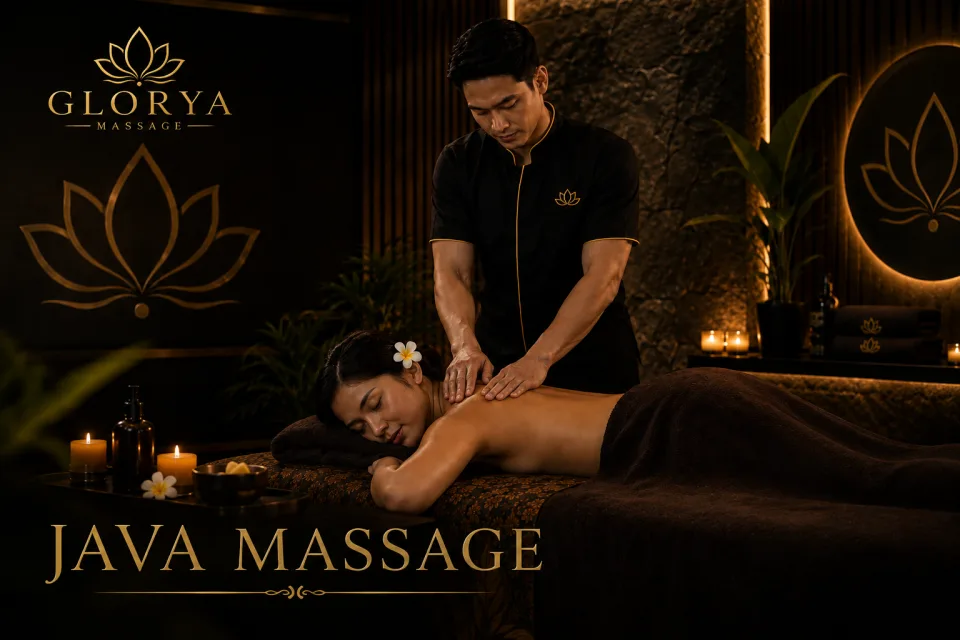
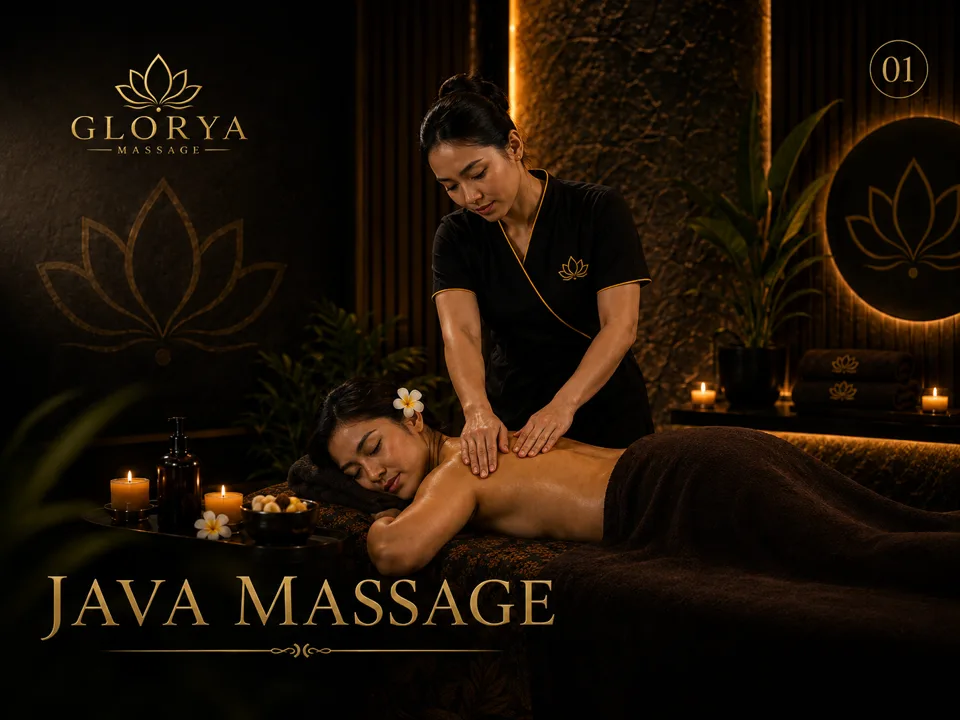
Refactor code structure for improved readability and maintainability

diff --git a/index.html b/index.html
@@ -13,7 +13,7 @@
   <link rel="icon" href="assets/images/favicon.ico" sizes="any">
   <link rel="apple-touch-icon" sizes="180x180" href="assets/images/apple-touch-icon.png">
   <link rel="manifest" href="site.webmanifest">
-  <link rel="preload" as="image" href="assets/images/hero-glorya.webp" type="image/webp" fetchpriority="high">
+  <link rel="preload" as="image" href="assets/images/hero-massage-spa.webp" type="image/webp" fetchpriority="high">
 
   <meta property="og:type" content="website">
   <meta property="og:title" content="Jasa Pijat Panggilan Jogja 24 Jam | Glorya Massage">
@@ -153,7 +153,7 @@
 
   <main id="main-content">
     <section id="home" class="hero-pattern relative flex min-h-[100svh] items-center overflow-hidden pt-[76px]">
-      <img src="assets/images/hero-glorya.webp" class="hero-image absolute inset-0 h-full w-full object-cover" width="1586" height="992" alt="" fetchpriority="high" decoding="async">
+      <img src="assets/images/hero-massage-spa.webp" class="hero-image absolute inset-0 h-full w-full object-cover" width="1448" height="1086" alt="" fetchpriority="high" decoding="async">
       <div class="relative z-10 mx-auto w-full max-w-7xl px-5 py-10 sm:px-8 sm:py-12 lg:px-10 lg:py-8">
         <div class="max-w-4xl">
           <div class="reveal mb-5 flex items-center gap-4 text-[10px] font-semibold tracking-[.25em] text-glorya-lightGold sm:text-xs"><span class="h-px w-10 bg-glorya-gold"></span>PIJAT PANGGILAN • YOGYAKARTA • 24 JAM</div>
@@ -196,24 +196,24 @@
       <div class="mx-auto max-w-7xl px-5 sm:px-8 lg:px-10">
         <div class="reveal mx-auto max-w-2xl text-center"><span class="eyebrow justify-center">Pilihan Relaksasi</span><h2 class="section-title">Treatment & Harga <span class="text-glorya-lightGold">Glorya Massage</span></h2><p class="section-copy mx-auto">Pilih treatment dan durasi massage yang sesuai dengan kebutuhan relaksasi Anda.</p></div>
         <div class="mt-14 grid gap-5 md:grid-cols-2 lg:grid-cols-3">
-          <article class="treatment-card reveal"><span class="card-index">01</span><span class="card-ornament-tugu" aria-hidden="true"></span><div class="treatment-image"><img src="assets/images/treatment/java-massage.webp" width="960" height="640" alt="Treatment Java Massage Glorya Massage" loading="lazy" decoding="async"></div><h3>Java Massage</h3><p>Massage dengan pendekatan pijat tradisional Jawa untuk membantu tubuh terasa lebih rileks dan nyaman setelah beraktivitas.</p><div class="price-list"><button class="price-option wa-trigger" data-service="Java Massage" data-duration="60 menit" data-price="Rp150.000"><span>60 menit</span><strong>Rp150.000</strong></button><button class="price-option wa-trigger" data-service="Java Massage" data-duration="90 menit" data-price="Rp200.000"><span>90 menit</span><strong>Rp200.000</strong></button><button class="price-option wa-trigger" data-service="Java Massage" data-duration="120 menit" data-price="Rp250.000"><span>120 menit</span><strong>Rp250.000</strong></button></div><button type="button" class="btn-gold btn-card-book wa-trigger" data-service="Java Massage">Booking Sekarang</button><span class="card-ornament-filigri" aria-hidden="true"></span><span class="card-ornament-emblem" aria-hidden="true"></span></article>
-          <article class="treatment-card reveal"><span class="card-index">02</span><span class="card-ornament-tugu" aria-hidden="true"></span><div class="treatment-image"><img src="assets/images/treatment/massage-kombinasi.webp" width="960" height="640" alt="Treatment Massage Kombinasi Glorya Massage" loading="lazy" decoding="async"></div><h3>Massage Kombinasi</h3><p>Kombinasi beberapa teknik massage untuk memberikan pengalaman relaksasi yang lebih menyeluruh sesuai kebutuhan kenyamanan tubuh.</p><div class="price-list"><button class="price-option wa-trigger" data-service="Massage Kombinasi" data-duration="60 menit" data-price="Rp200.000"><span>60 menit</span><strong>Rp200.000</strong></button><button class="price-option wa-trigger" data-service="Massage Kombinasi" data-duration="90 menit" data-price="Rp250.000"><span>90 menit</span><strong>Rp250.000</strong></button><button class="price-option wa-trigger" data-service="Massage Kombinasi" data-duration="120 menit" data-price="Rp300.000"><span>120 menit</span><strong>Rp300.000</strong></button></div><button type="button" class="btn-gold btn-card-book wa-trigger" data-service="Massage Kombinasi">Booking Sekarang</button><span class="card-ornament-filigri" aria-hidden="true"></span><span class="card-ornament-emblem" aria-hidden="true"></span></article>
-          <article class="treatment-card reveal"><span class="card-index">03</span><span class="card-ornament-tugu" aria-hidden="true"></span><div class="treatment-image"><img src="assets/images/treatment/neck-shoulder-massage.webp" width="960" height="640" alt="Treatment Neck and Shoulder Massage Glorya Massage" loading="lazy" decoding="async"></div><h3>Neck & Shoulder Massage</h3><p>Massage yang berfokus pada area leher, bahu dan area sekitarnya, cocok untuk relaksasi setelah aktivitas sehari-hari.</p><div class="price-list"><button class="price-option wa-trigger" data-service="Neck & Shoulder Massage" data-duration="60 menit" data-price="Rp150.000"><span>60 menit</span><strong>Rp150.000</strong></button><button class="price-option wa-trigger" data-service="Neck & Shoulder Massage" data-duration="90 menit" data-price="Rp200.000"><span>90 menit</span><strong>Rp200.000</strong></button><button class="price-option wa-trigger" data-service="Neck & Shoulder Massage" data-duration="120 menit" data-price="Rp250.000"><span>120 menit</span><strong>Rp250.000</strong></button></div><button type="button" class="btn-gold btn-card-book wa-trigger" data-service="Neck & Shoulder Massage">Booking Sekarang</button><span class="card-ornament-filigri" aria-hidden="true"></span><span class="card-ornament-emblem" aria-hidden="true"></span></article>
-          <article class="treatment-card reveal"><span class="card-index">04</span><span class="card-ornament-tugu" aria-hidden="true"></span><div class="treatment-image"><img src="assets/images/treatment/massage-refleksi.webp" width="960" height="640" alt="Treatment Massage Refleksi Glorya Massage" loading="lazy" decoding="async"></div><h3>Massage Refleksi</h3><p>Treatment refleksi yang berfokus pada titik tertentu untuk memberikan pengalaman rileks dan nyaman.</p><div class="price-list"><button class="price-option wa-trigger" data-service="Massage Refleksi" data-duration="60 menit" data-price="Rp150.000"><span>60 menit</span><strong>Rp150.000</strong></button><button class="price-option wa-trigger" data-service="Massage Refleksi" data-duration="90 menit" data-price="Rp200.000"><span>90 menit</span><strong>Rp200.000</strong></button><button class="price-option wa-trigger" data-service="Massage Refleksi" data-duration="120 menit" data-price="Rp250.000"><span>120 menit</span><strong>Rp250.000</strong></button></div><button type="button" class="btn-gold btn-card-book wa-trigger" data-service="Massage Refleksi">Booking Sekarang</button><span class="card-ornament-filigri" aria-hidden="true"></span><span class="card-ornament-emblem" aria-hidden="true"></span></article>
-          <article class="treatment-card reveal"><span class="card-index">05</span><span class="card-ornament-tugu" aria-hidden="true"></span><div class="treatment-image"><img src="assets/images/treatment/massage-kerik.webp" width="960" height="640" alt="Treatment Massage Kerik Glorya Massage" loading="lazy" decoding="async"></div><h3>Massage Kerik</h3><p>Kombinasi massage dan teknik kerik tradisional untuk memberikan pengalaman relaksasi yang lebih lengkap.</p><div class="price-list"><button class="price-option wa-trigger" data-service="Massage Kerik" data-duration="60 menit" data-price="Rp175.000"><span>60 menit</span><strong>Rp175.000</strong></button><button class="price-option wa-trigger" data-service="Massage Kerik" data-duration="90 menit" data-price="Rp250.000"><span>90 menit</span><strong>Rp250.000</strong></button><button class="price-option wa-trigger" data-service="Massage Kerik" data-duration="120 menit" data-price="Rp300.000"><span>120 menit</span><strong>Rp300.000</strong></button></div><button type="button" class="btn-gold btn-card-book wa-trigger" data-service="Massage Kerik">Booking Sekarang</button><span class="card-ornament-filigri" aria-hidden="true"></span><span class="card-ornament-emblem" aria-hidden="true"></span></article>
-          <article class="treatment-card reveal"><span class="card-index">06</span><span class="card-ornament-tugu" aria-hidden="true"></span><div class="treatment-image"><img src="assets/images/treatment/massage-scrub-lulur.webp" width="960" height="640" alt="Treatment Massage Scrub dan Lulur Glorya Massage" loading="lazy" decoding="async"></div><h3>Massage Scrub / Lulur</h3><p>Massage yang dikombinasikan dengan treatment scrub atau lulur untuk melengkapi pengalaman perawatan dan relaksasi tubuh.</p><div class="price-list"><button class="price-option wa-trigger" data-service="Massage Scrub / Lulur" data-duration="60 menit" data-price="Rp200.000"><span>60 menit</span><strong>Rp200.000</strong></button><button class="price-option wa-trigger" data-service="Massage Scrub / Lulur" data-duration="90 menit" data-price="Rp250.000"><span>90 menit</span><strong>Rp250.000</strong></button><button class="price-option wa-trigger" data-service="Massage Scrub / Lulur" data-duration="120 menit" data-price="Rp300.000"><span>120 menit</span><strong>Rp300.000</strong></button></div><button type="button" class="btn-gold btn-card-book wa-trigger" data-service="Massage Scrub / Lulur">Booking Sekarang</button><span class="card-ornament-filigri" aria-hidden="true"></span><span class="card-ornament-emblem" aria-hidden="true"></span></article>
-          <article class="treatment-card reveal"><span class="card-index">07</span><span class="card-ornament-tugu" aria-hidden="true"></span><div class="treatment-image"><img src="assets/images/treatment/deep-tissue-massage.webp" width="960" height="640" alt="Treatment Deep Tissue Massage Glorya Massage" loading="lazy" decoding="async"></div><h3>Deep Tissue Massage</h3><p>Massage dengan tekanan yang lebih dalam untuk pelanggan yang menyukai intensitas pijatan lebih kuat pada area tertentu.</p><div class="price-list"><button class="price-option wa-trigger" data-service="Deep Tissue Massage" data-duration="60 menit" data-price="Rp200.000"><span>60 menit</span><strong>Rp200.000</strong></button><button class="price-option wa-trigger" data-service="Deep Tissue Massage" data-duration="90 menit" data-price="Rp300.000"><span>90 menit</span><strong>Rp300.000</strong></button><button class="price-option wa-trigger" data-service="Deep Tissue Massage" data-duration="120 menit" data-price="Rp400.000"><span>120 menit</span><strong>Rp400.000</strong></button></div><button type="button" class="btn-gold btn-card-book wa-trigger" data-service="Deep Tissue Massage">Booking Sekarang</button><span class="card-ornament-filigri" aria-hidden="true"></span><span class="card-ornament-emblem" aria-hidden="true"></span></article>
-          <article class="treatment-card reveal"><span class="card-index">08</span><span class="card-ornament-tugu" aria-hidden="true"></span><div class="treatment-image"><img src="assets/images/treatment/massage-bekam.webp" width="960" height="640" alt="Treatment Massage Bekam Glorya Massage" loading="lazy" decoding="async"></div><h3>Massage Bekam</h3><p>Treatment massage yang dikombinasikan dengan teknik bekam sebagai pilihan layanan wellness dan relaksasi.</p><div class="price-list"><button class="price-option wa-trigger" data-service="Massage Bekam" data-duration="60 menit" data-price="Rp250.000"><span>60 menit</span><strong>Rp250.000</strong></button><button class="price-option wa-trigger" data-service="Massage Bekam" data-duration="90 menit" data-price="Rp300.000"><span>90 menit</span><strong>Rp300.000</strong></button><button class="price-option wa-trigger" data-service="Massage Bekam" data-duration="120 menit" data-price="Rp400.000"><span>120 menit</span><strong>Rp400.000</strong></button></div><button type="button" class="btn-gold btn-card-book wa-trigger" data-service="Massage Bekam">Booking Sekarang</button><span class="card-ornament-filigri" aria-hidden="true"></span><span class="card-ornament-emblem" aria-hidden="true"></span></article>
-          <article class="treatment-card reveal"><span class="card-index">09</span><span class="card-ornament-tugu" aria-hidden="true"></span><div class="treatment-image"><img src="assets/images/treatment/thai-massage.webp" width="960" height="640" alt="Treatment Thai Massage Glorya Massage" loading="lazy" decoding="async"></div><h3>Thai Massage</h3><p>Massage dengan inspirasi teknik Thai yang memadukan tekanan dan peregangan untuk pengalaman relaksasi yang berbeda.</p><div class="price-list"><button class="price-option wa-trigger" data-service="Thai Massage" data-duration="60 menit" data-price="Rp200.000"><span>60 menit</span><strong>Rp200.000</strong></button><button class="price-option wa-trigger" data-service="Thai Massage" data-duration="90 menit" data-price="Rp300.000"><span>90 menit</span><strong>Rp300.000</strong></button><button class="price-option wa-trigger" data-service="Thai Massage" data-duration="120 menit" data-price="Rp400.000"><span>120 menit</span><strong>Rp400.000</strong></button></div><button type="button" class="btn-gold btn-card-book wa-trigger" data-service="Thai Massage">Booking Sekarang</button><span class="card-ornament-filigri" aria-hidden="true"></span><span class="card-ornament-emblem" aria-hidden="true"></span></article>
+          <article class="treatment-card reveal"><span class="card-ornament-tugu" aria-hidden="true"></span><div class="treatment-image"><img src="assets/images/treatment/java-massage.webp" width="960" height="720" alt="Treatment Java Massage Glorya Massage" loading="lazy" decoding="async"></div><h3>Java Massage</h3><p>Massage dengan pendekatan pijat tradisional Jawa untuk membantu tubuh terasa lebih rileks dan nyaman setelah beraktivitas.</p><div class="price-list"><button class="price-option wa-trigger" data-service="Java Massage" data-duration="60 menit" data-price="Rp150.000"><span>60 menit</span><strong>Rp150.000</strong></button><button class="price-option wa-trigger" data-service="Java Massage" data-duration="90 menit" data-price="Rp200.000"><span>90 menit</span><strong>Rp200.000</strong></button><button class="price-option wa-trigger" data-service="Java Massage" data-duration="120 menit" data-price="Rp250.000"><span>120 menit</span><strong>Rp250.000</strong></button></div><button type="button" class="btn-gold btn-card-book wa-trigger" data-service="Java Massage">Booking Sekarang</button><span class="card-ornament-filigri" aria-hidden="true"></span><span class="card-ornament-emblem" aria-hidden="true"></span></article>
+          <article class="treatment-card reveal"><span class="card-ornament-tugu" aria-hidden="true"></span><div class="treatment-image"><img src="assets/images/treatment/massage-kombinasi.webp" width="960" height="720" alt="Treatment Massage Kombinasi Glorya Massage" loading="lazy" decoding="async"></div><h3>Massage Kombinasi</h3><p>Kombinasi beberapa teknik massage untuk memberikan pengalaman relaksasi yang lebih menyeluruh sesuai kebutuhan kenyamanan tubuh.</p><div class="price-list"><button class="price-option wa-trigger" data-service="Massage Kombinasi" data-duration="60 menit" data-price="Rp200.000"><span>60 menit</span><strong>Rp200.000</strong></button><button class="price-option wa-trigger" data-service="Massage Kombinasi" data-duration="90 menit" data-price="Rp250.000"><span>90 menit</span><strong>Rp250.000</strong></button><button class="price-option wa-trigger" data-service="Massage Kombinasi" data-duration="120 menit" data-price="Rp300.000"><span>120 menit</span><strong>Rp300.000</strong></button></div><button type="button" class="btn-gold btn-card-book wa-trigger" data-service="Massage Kombinasi">Booking Sekarang</button><span class="card-ornament-filigri" aria-hidden="true"></span><span class="card-ornament-emblem" aria-hidden="true"></span></article>
+          <article class="treatment-card reveal"><span class="card-ornament-tugu" aria-hidden="true"></span><div class="treatment-image"><img src="assets/images/treatment/neck-shoulder-massage.webp" width="960" height="720" alt="Treatment Neck and Shoulder Massage Glorya Massage" loading="lazy" decoding="async"></div><h3>Neck & Shoulder Massage</h3><p>Massage yang berfokus pada area leher, bahu dan area sekitarnya, cocok untuk relaksasi setelah aktivitas sehari-hari.</p><div class="price-list"><button class="price-option wa-trigger" data-service="Neck & Shoulder Massage" data-duration="60 menit" data-price="Rp150.000"><span>60 menit</span><strong>Rp150.000</strong></button><button class="price-option wa-trigger" data-service="Neck & Shoulder Massage" data-duration="90 menit" data-price="Rp200.000"><span>90 menit</span><strong>Rp200.000</strong></button><button class="price-option wa-trigger" data-service="Neck & Shoulder Massage" data-duration="120 menit" data-price="Rp250.000"><span>120 menit</span><strong>Rp250.000</strong></button></div><button type="button" class="btn-gold btn-card-book wa-trigger" data-service="Neck & Shoulder Massage">Booking Sekarang</button><span class="card-ornament-filigri" aria-hidden="true"></span><span class="card-ornament-emblem" aria-hidden="true"></span></article>
+          <article class="treatment-card reveal"><span class="card-ornament-tugu" aria-hidden="true"></span><div class="treatment-image"><img src="assets/images/treatment/massage-scrub-lulur.webp" width="960" height="720" alt="Treatment Massage Scrub dan Lulur Glorya Massage" loading="lazy" decoding="async"></div><h3>Massage Scrub / Lulur</h3><p>Massage yang dikombinasikan dengan treatment scrub atau lulur untuk melengkapi pengalaman perawatan dan relaksasi tubuh.</p><div class="price-list"><button class="price-option wa-trigger" data-service="Massage Scrub / Lulur" data-duration="60 menit" data-price="Rp200.000"><span>60 menit</span><strong>Rp200.000</strong></button><button class="price-option wa-trigger" data-service="Massage Scrub / Lulur" data-duration="90 menit" data-price="Rp250.000"><span>90 menit</span><strong>Rp250.000</strong></button><button class="price-option wa-trigger" data-service="Massage Scrub / Lulur" data-duration="120 menit" data-price="Rp300.000"><span>120 menit</span><strong>Rp300.000</strong></button></div><button type="button" class="btn-gold btn-card-book wa-trigger" data-service="Massage Scrub / Lulur">Booking Sekarang</button><span class="card-ornament-filigri" aria-hidden="true"></span><span class="card-ornament-emblem" aria-hidden="true"></span></article>
+          <article class="treatment-card reveal"><span class="card-ornament-tugu" aria-hidden="true"></span><div class="treatment-image"><img src="assets/images/treatment/massage-refleksi.webp" width="960" height="720" alt="Treatment Massage Refleksi Glorya Massage" loading="lazy" decoding="async"></div><h3>Massage Refleksi</h3><p>Treatment refleksi yang berfokus pada titik tertentu untuk memberikan pengalaman rileks dan nyaman.</p><div class="price-list"><button class="price-option wa-trigger" data-service="Massage Refleksi" data-duration="60 menit" data-price="Rp150.000"><span>60 menit</span><strong>Rp150.000</strong></button><button class="price-option wa-trigger" data-service="Massage Refleksi" data-duration="90 menit" data-price="Rp200.000"><span>90 menit</span><strong>Rp200.000</strong></button><button class="price-option wa-trigger" data-service="Massage Refleksi" data-duration="120 menit" data-price="Rp250.000"><span>120 menit</span><strong>Rp250.000</strong></button></div><button type="button" class="btn-gold btn-card-book wa-trigger" data-service="Massage Refleksi">Booking Sekarang</button><span class="card-ornament-filigri" aria-hidden="true"></span><span class="card-ornament-emblem" aria-hidden="true"></span></article>
+          <article class="treatment-card reveal"><span class="card-ornament-tugu" aria-hidden="true"></span><div class="treatment-image"><img src="assets/images/treatment/massage-kerik.webp" width="960" height="720" alt="Treatment Massage Kerik Glorya Massage" loading="lazy" decoding="async"></div><h3>Massage Kerik</h3><p>Kombinasi massage dan teknik kerik tradisional untuk memberikan pengalaman relaksasi yang lebih lengkap.</p><div class="price-list"><button class="price-option wa-trigger" data-service="Massage Kerik" data-duration="60 menit" data-price="Rp175.000"><span>60 menit</span><strong>Rp175.000</strong></button><button class="price-option wa-trigger" data-service="Massage Kerik" data-duration="90 menit" data-price="Rp250.000"><span>90 menit</span><strong>Rp250.000</strong></button><button class="price-option wa-trigger" data-service="Massage Kerik" data-duration="120 menit" data-price="Rp300.000"><span>120 menit</span><strong>Rp300.000</strong></button></div><button type="button" class="btn-gold btn-card-book wa-trigger" data-service="Massage Kerik">Booking Sekarang</button><span class="card-ornament-filigri" aria-hidden="true"></span><span class="card-ornament-emblem" aria-hidden="true"></span></article>
+          <article class="treatment-card reveal"><span class="card-ornament-tugu" aria-hidden="true"></span><div class="treatment-image"><img src="assets/images/treatment/deep-tissue-massage.webp" width="960" height="720" alt="Treatment Deep Tissue Massage Glorya Massage" loading="lazy" decoding="async"></div><h3>Deep Tissue Massage</h3><p>Massage dengan tekanan yang lebih dalam untuk pelanggan yang menyukai intensitas pijatan lebih kuat pada area tertentu.</p><div class="price-list"><button class="price-option wa-trigger" data-service="Deep Tissue Massage" data-duration="60 menit" data-price="Rp200.000"><span>60 menit</span><strong>Rp200.000</strong></button><button class="price-option wa-trigger" data-service="Deep Tissue Massage" data-duration="90 menit" data-price="Rp300.000"><span>90 menit</span><strong>Rp300.000</strong></button><button class="price-option wa-trigger" data-service="Deep Tissue Massage" data-duration="120 menit" data-price="Rp400.000"><span>120 menit</span><strong>Rp400.000</strong></button></div><button type="button" class="btn-gold btn-card-book wa-trigger" data-service="Deep Tissue Massage">Booking Sekarang</button><span class="card-ornament-filigri" aria-hidden="true"></span><span class="card-ornament-emblem" aria-hidden="true"></span></article>
+          <article class="treatment-card reveal"><span class="card-ornament-tugu" aria-hidden="true"></span><div class="treatment-image"><img src="assets/images/treatment/thai-massage.webp" width="960" height="720" alt="Treatment Thai Massage Glorya Massage" loading="lazy" decoding="async"></div><h3>Thai Massage</h3><p>Massage dengan inspirasi teknik Thai yang memadukan tekanan dan peregangan untuk pengalaman relaksasi yang berbeda.</p><div class="price-list"><button class="price-option wa-trigger" data-service="Thai Massage" data-duration="60 menit" data-price="Rp200.000"><span>60 menit</span><strong>Rp200.000</strong></button><button class="price-option wa-trigger" data-service="Thai Massage" data-duration="90 menit" data-price="Rp300.000"><span>90 menit</span><strong>Rp300.000</strong></button><button class="price-option wa-trigger" data-service="Thai Massage" data-duration="120 menit" data-price="Rp400.000"><span>120 menit</span><strong>Rp400.000</strong></button></div><button type="button" class="btn-gold btn-card-book wa-trigger" data-service="Thai Massage">Booking Sekarang</button><span class="card-ornament-filigri" aria-hidden="true"></span><span class="card-ornament-emblem" aria-hidden="true"></span></article>
+          <article class="treatment-card reveal"><span class="card-ornament-tugu" aria-hidden="true"></span><div class="treatment-image"><img src="assets/images/treatment/massage-bekam.webp" width="960" height="720" alt="Treatment Massage Bekam Glorya Massage" loading="lazy" decoding="async"></div><h3>Massage Bekam</h3><p>Treatment massage yang dikombinasikan dengan teknik bekam sebagai pilihan layanan wellness dan relaksasi.</p><div class="price-list"><button class="price-option wa-trigger" data-service="Massage Bekam" data-duration="60 menit" data-price="Rp250.000"><span>60 menit</span><strong>Rp250.000</strong></button><button class="price-option wa-trigger" data-service="Massage Bekam" data-duration="90 menit" data-price="Rp300.000"><span>90 menit</span><strong>Rp300.000</strong></button><button class="price-option wa-trigger" data-service="Massage Bekam" data-duration="120 menit" data-price="Rp400.000"><span>120 menit</span><strong>Rp400.000</strong></button></div><button type="button" class="btn-gold btn-card-book wa-trigger" data-service="Massage Bekam">Booking Sekarang</button><span class="card-ornament-filigri" aria-hidden="true"></span><span class="card-ornament-emblem" aria-hidden="true"></span></article>
         </div>
         <div class="extended-panel reveal mt-7">
-          <div><span class="eyebrow">Extended Relaxation</span><h3 class="font-display text-4xl font-semibold sm:text-5xl">Lebih lama, lebih leluasa.</h3><p class="mt-3 max-w-xl leading-7 text-glorya-soft">Pilihan sesi panjang untuk menikmati waktu relaksasi tanpa terburu-buru.</p></div>
+          <div><span class="eyebrow">Durasi Ekstra</span><h3 class="font-display text-4xl font-semibold sm:text-5xl">Mau waktu lebih lama?</h3><p class="mt-3 max-w-xl leading-7 text-glorya-soft">Pilihan sesi panjang untuk menikmati waktu relaksasi tanpa terburu-buru.</p></div>
           <div class="grid gap-3 sm:grid-cols-2 lg:min-w-[510px]">
             <button class="extended-option wa-trigger" data-service="Extended Massage" data-duration="150 menit / 2,5 jam" data-price="Rp400.000"><span><b>150 menit</b><small>2,5 jam</small></span><strong>Rp400.000</strong></button>
             <button class="extended-option wa-trigger" data-service="Extended Massage" data-duration="180 menit / 3 jam" data-price="Rp500.000"><span><b>180 menit</b><small>3 jam</small></span><strong>Rp500.000</strong></button>
           </div>
         </div>
-        <p class="mt-5 text-center text-xs leading-6 text-glorya-muted">Ketuk pilihan durasi untuk langsung menanyakan jadwal melalui WhatsApp.</p>
+        <p class="mt-5 text-center text-xs leading-6 text-glorya-muted">Ketuk durasi untuk langsung booking via WhatsApp.</p>
       </div>
     </section>
 
@@ -289,9 +289,8 @@
       <div class="mx-auto grid max-w-7xl gap-12 px-5 sm:px-8 lg:grid-cols-[1fr_.95fr] lg:items-center lg:px-10">
         <div class="reveal"><span class="eyebrow">Area Pelayanan</span><h2 class="section-title">Jasa Pijat Panggilan di <span class="text-glorya-lightGold">Seluruh Yogyakarta</span></h2><p class="section-copy">Layanan jasa pijat panggilan Jogja dari Glorya menjangkau seluruh Daerah Istimewa Yogyakarta. Terapis pria dan wanita dapat datang ke rumah, hotel, kost, villa, apartemen, maupun penginapan Anda—24 jam dengan gratis transport.</p><div class="mt-8 flex flex-wrap gap-3"><span class="pill">24 Jam</span><span class="pill">Gratis Transport</span><span class="pill">Terapis Pria & Wanita</span></div></div>
         <div class="reveal grid gap-3 sm:grid-cols-2">
-          <div class="area-card sm:col-span-2"><span>01</span><div><h3>Kota Yogyakarta</h3><p>Home massage di pusat kota dan sekitarnya.</p></div></div>
-          <div class="area-card"><span>02</span><div><h3>Sleman</h3><p>Panggilan ke lokasi Anda.</p></div></div><div class="area-card"><span>03</span><div><h3>Bantul</h3><p>Panggilan ke lokasi Anda.</p></div></div>
-          <div class="area-card"><span>04</span><div><h3>Kulon Progo</h3><p>Panggilan ke lokasi Anda.</p></div></div><div class="area-card"><span>05</span><div><h3>Gunungkidul</h3><p>Panggilan ke lokasi Anda.</p></div></div>
+          <div class="area-card sm:col-span-2"><span>01</span><div><h3>Seluruh Wilayah Yogyakarta</h3><p>Home massage menjangkau seluruh penjuru Yogyakarta, kota maupun kabupaten sekitarnya.</p></div></div>
+          <div class="area-card"><span>02</span><div><h3>Respon Cepat</h3><p>Panggilan ke lokasi Anda kapan saja.</p></div></div><div class="area-card"><span>03</span><div><h3>Booking Fleksibel</h3><p>Rumah, hotel, villa, hingga apartemen.</p></div></div>
         </div>
       </div>
     </section>

diff --git a/assets/css/custom.css b/assets/css/custom.css
@@ -50,7 +50,6 @@ a, button { transition: color .25s ease, background-color .25s ease, border-colo
 .treatment-image::after { content: ''; position: absolute; inset: 0; background: linear-gradient(180deg,transparent 64%,rgba(8,8,8,.12) 80%,rgba(8,8,8,.68) 100%); pointer-events: none; }
 .treatment-image img { width: 100%; height: 100%; object-fit: cover; object-position: center 34%; transition: transform .6s ease, filter .4s ease; }
 .treatment-card:hover .treatment-image img { transform: scale(1.025); filter: saturate(1.05); }
-.card-index { position: absolute; z-index: 2; right: 1rem; top: 1rem; display: grid; width: 2.4rem; height: 2.4rem; place-items: center; border: 1px solid rgba(240,217,138,.45); border-radius: 50%; background: rgba(8,8,8,.72); font-family: 'Cormorant Garamond',serif; font-size: .9rem; color: #F0D98A; backdrop-filter: blur(8px); }
 .treatment-card h3 { max-width: 80%; font-family: 'Cormorant Garamond',serif; font-size: 1.75rem; font-weight: 600; line-height: 1.05; color: #F0D98A; }
 .treatment-card > p { margin-top: 1.1rem; flex: 1; color: #858078; font-size: .82rem; line-height: 1.75; }
 .price-list { margin-top: 1.4rem; border-top: 1px solid rgba(255,255,255,.08); }
